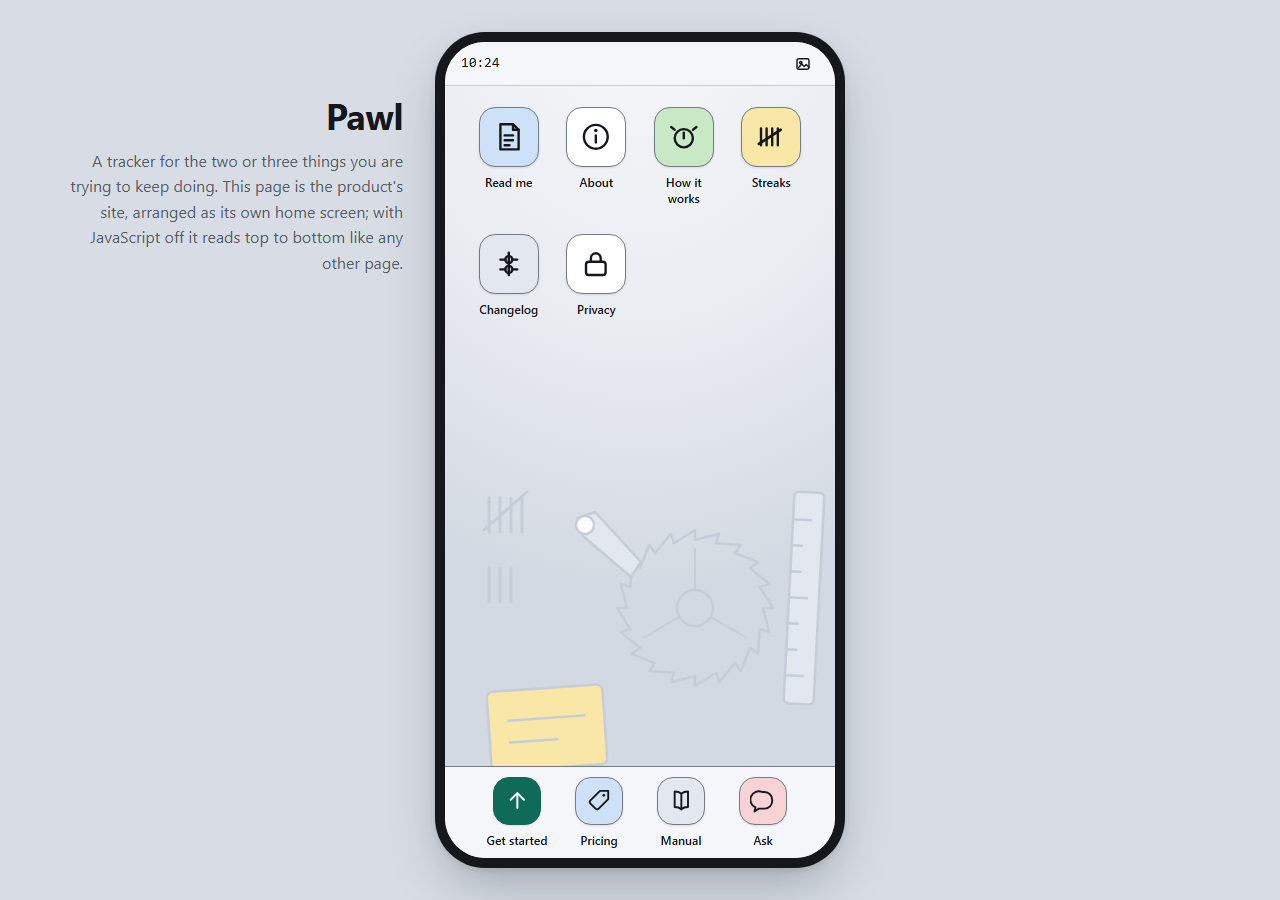
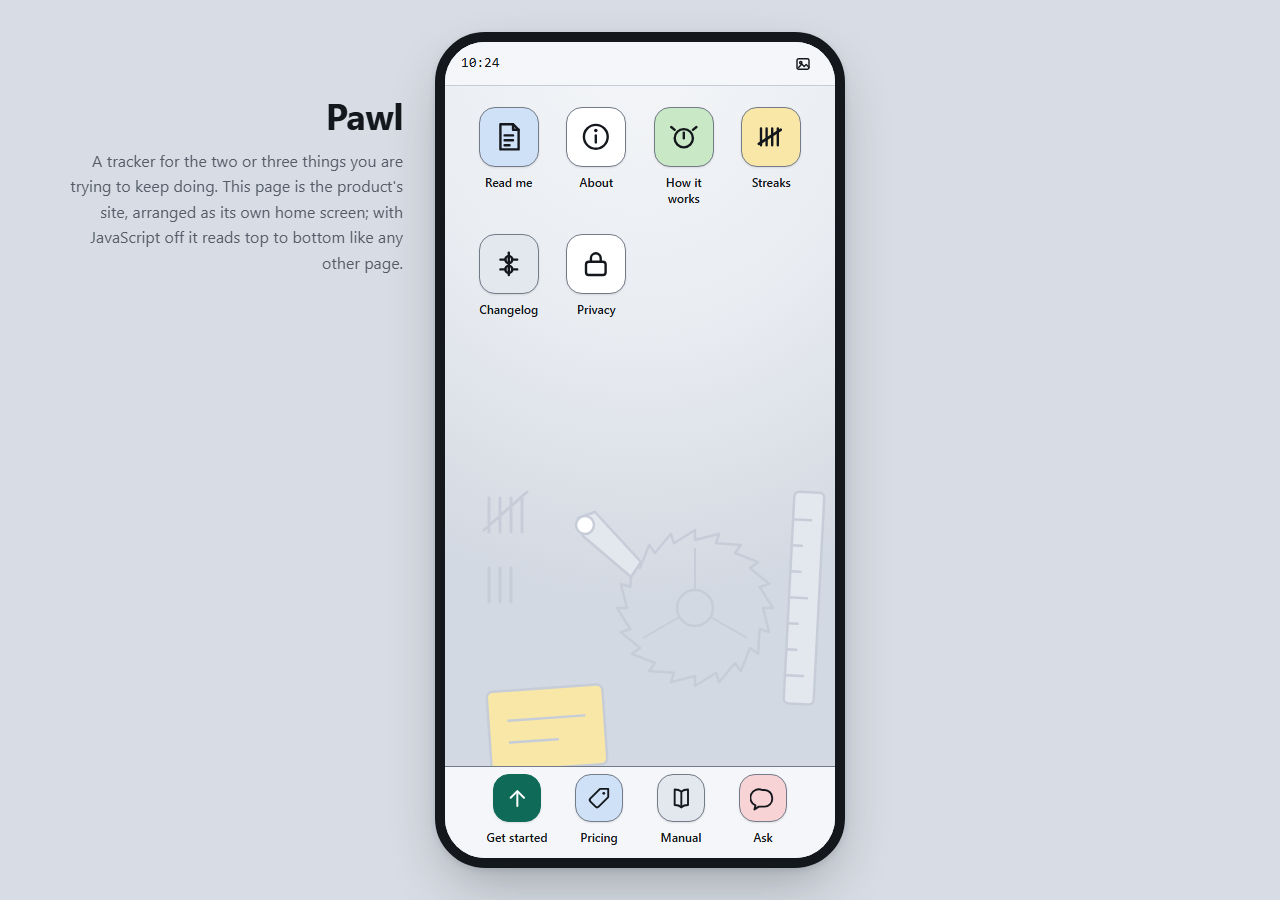
Fix square corners on an open sheet by clipping at the device
The bezel becomes a border rather than padding, so overflow:hidden on .ph-device clips every child to the screen's rounded boundary (outer radius minus border width, which tokens.css now defines --ph-radius-screen to be). Every per-element radius inside the screen is deleted: one declaration owns the boundary and no child background can paint past it. The masthead, the one element that legitimately sits outside, switches to position:fixed. The dock reserves the focus ring's reach so the new clip cannot shave it.

Changed region(s): [[0.0938, 0.1244, 0.3125, 0.3111], [0.375, 0.8711, 0.625, 0.9644], [0.0625, 0.1867, 0.0938, 0.2178]]

diff --git a/shell/shell.css b/shell/shell.css
@@ -474,12 +474,21 @@ body[data-wallpaper="scene"] .ph-wallpaper > svg {
   list-style: none;
 }
 
+/* The dock reserves the focus ring's reach at its bottom edge. This is the
+   one place in the shell where a ring can run into the screen's boundary:
+   the dock is the last thing on the screen, and its icons sit close enough
+   to the bottom that a ring drawn at full offset used to overshoot by a
+   fraction of a pixel. Before the device clipped its subtree that fraction
+   painted onto the bezel; after, it would have been shaved off. Reserving
+   the reach is what makes both wrong answers impossible, and it is written
+   as the ring's own tokens so it stays correct if the ring gets thicker. */
 .ph-live .ph-dock {
   flex: none;
   height: var(--ph-dock-height);
   display: flex;
   align-items: center;
-  padding: 0 var(--ph-space-3);
+  padding: 0 var(--ph-space-3)
+    calc(var(--ph-ring-width) + var(--ph-ring-offset));
 }
 
 .ph-live .ph-dock-list {
@@ -717,58 +726,60 @@ body[data-wallpaper="scene"] .ph-wallpaper > svg {
     place-items: center;
     height: 100dvh;
     padding: var(--ph-space-8);
+
+    /* The device's outer size, derived once and inherited, because two
+       rules need it: the device itself, and the masthead that has to line
+       itself up against a device it is no longer inside. */
+    --ph-device-outer-w: calc(var(--ph-device-width) + 2 * var(--ph-bezel));
+    --ph-device-outer-h: min(
+      calc(var(--ph-device-height) + 2 * var(--ph-bezel)),
+      calc(100dvh - 2 * var(--ph-space-8))
+    );
   }
 
   /* The device body. It declines to cosplay a particular handset: no notch,
      no camera, no brand. It is a bezel, a screen and a shadow, all drawn
-     from tokens. */
+     from tokens.
+
+     THE BEZEL IS A BORDER, NOT PADDING, AND THAT IS THE WHOLE MECHANISM.
+     An element's overflow clip is taken at its PADDING edge, with the
+     corner radii reduced by the BORDER width and not by the padding. Draw
+     the bezel as padding and `overflow: hidden` clips at the device's outer
+     edge, which is no use to anything sitting on the screen. Draw it as a
+     border and the clip lands exactly on the screen, rounded by
+     (--ph-radius-device minus --ph-bezel), which is what tokens.css defines
+     --ph-radius-screen to be.
+
+     So this one declaration owns the screen's rounded boundary in every
+     state. Nothing inside the screen declares a corner of its own, which
+     means no child background can paint past it: not the dock, not a sheet,
+     not anything a later change adds. The defect that motivated this (an
+     open sheet's white background painting square corners underneath a
+     correctly rounded home bar) was reachable only because the boundary
+     used to be restated on each element that happened to touch it, and a
+     restated boundary is one an element can be added without.
+
+     A second thing falls out of the border. Absolutely positioned children
+     resolve against the padding box, which is now exactly the screen, so
+     the wallpaper and the sheets need no bezel offsets at all and the rules
+     that used to apply them are gone.
+
+     border-box sizing stays explicit. It keeps the SCREEN at the native 390
+     whether or not the page consuming this shell ships a box-sizing reset;
+     sized the other way, a reset subtracts the bezel from the screen and
+     the presentation stops being the phone it presents. */
   .ph-live .ph-device {
     position: relative;
     inset: auto;
 
-    /* border-box and the explicit bezel arithmetic together are what keep
-       the SCREEN at the native 390, whether or not the page that consumes
-       this shell ships a box-sizing reset. Sized the other way, a reset
-       silently subtracts the bezel from the screen and the desktop
-       presentation stops being the phone it claims to present. */
     box-sizing: border-box;
-    width: calc(var(--ph-device-width) + 2 * var(--ph-bezel));
-    height: min(
-      calc(var(--ph-device-height) + 2 * var(--ph-bezel)),
-      calc(100dvh - 2 * var(--ph-space-8))
-    );
-    padding: var(--ph-bezel);
-    background: var(--ph-ink);
+    width: var(--ph-device-outer-w);
+    height: var(--ph-device-outer-h);
+    border: var(--ph-bezel) solid var(--ph-ink);
     border-radius: var(--ph-radius-device);
+    overflow: hidden;
     box-shadow: var(--ph-shadow-device);
   }
-
-  /* No clipping container: each element that touches a screen corner
-     carries the screen radius itself, which is what lets the masthead
-     position outside the device without being cut off. */
-  .ph-live .ph-wallpaper {
-    inset: var(--ph-bezel);
-    border-radius: var(--ph-radius-screen);
-  }
-
-  .ph-live .ph-statusbar {
-    border-top-left-radius: var(--ph-radius-screen);
-    border-top-right-radius: var(--ph-radius-screen);
-  }
-
-  .ph-live .ph-dock,
-  .ph-live .ph-sheet-foot {
-    border-bottom-left-radius: var(--ph-radius-screen);
-    border-bottom-right-radius: var(--ph-radius-screen);
-  }
-
-  .ph-live .ph-sheet {
-    left: var(--ph-bezel);
-    right: var(--ph-bezel);
-    bottom: var(--ph-bezel);
-    top: calc(var(--ph-bezel) + var(--ph-statusbar-height));
-  }
-
 }
 
 /* --------------------------------------------------------------------------
@@ -784,16 +795,27 @@ body[data-wallpaper="scene"] .ph-wallpaper > svg {
    the page rather than to the phone.
    -------------------------------------------------------------------------- */
 @media (min-width: 960px) and (min-height: 620px) {
+  /* Fixed rather than absolute, and this is the one place the clip above
+     costs something. The device now clips its whole subtree to the screen,
+     and the masthead is the single element that legitimately belongs
+     outside it. A fixed-position element's containing block is the
+     viewport, so an ancestor's overflow does not reach it; that holds as
+     long as nothing on the path establishes a containing block for fixed
+     descendants, which means no transform, filter, backdrop-filter,
+     perspective, contain or will-change on the stage or the device. Keeping
+     those off the device is now load-bearing, not a style preference.
+
+     The cost of leaving the device's coordinate space is that the offsets
+     have to be restated against the viewport. The device is centred both
+     ways in the stage, so its edges are computable from the outer size the
+     stage declares, and these three expressions are that arithmetic. */
   .ph-live .ph-widget {
-    position: absolute;
-    top: var(--ph-space-16);
-    right: calc(100% + var(--ph-space-8));
+    position: fixed;
+    top: calc((100dvh - var(--ph-device-outer-h)) / 2 + var(--ph-space-16));
+    right: calc((100vw + var(--ph-device-outer-w)) / 2 + var(--ph-space-8));
     width: clamp(
       180px,
-      calc(
-        (100vw - var(--ph-device-width) - 2 * var(--ph-bezel)) / 2 -
-          var(--ph-space-12)
-      ),
+      calc((100vw - var(--ph-device-outer-w)) / 2 - var(--ph-space-12)),
       340px
     );
     padding: 0;

diff --git a/tokens/tokens.css b/tokens/tokens.css
@@ -171,9 +171,18 @@
   --ph-radius-tight: 4px;     /* badges, tags, keyboard hints */
   --ph-radius: 10px;          /* buttons, inputs, cards */
   --ph-radius-icon: 16px;     /* the app plate */
-  --ph-radius-sheet: 22px;    /* an app sheet's top corners */
-  --ph-radius-screen: 40px;   /* the screen's corners, desktop presentation */
-  --ph-radius-device: 50px;   /* the device's outer edge, desktop presentation */
+  --ph-radius-sheet: 22px;    /* an app sheet's card corners, plain document */
+
+  /* The screen's corners in the presented-device states, and the single
+     authority for that boundary: shell.css draws the bezel as a BORDER and
+     clips the device, so the browser derives the screen's rounded corner as
+     the outer radius minus the border width. Deriving the outer radius the
+     other way round is what keeps those two in agreement for any bezel: no
+     child of the screen declares a corner of its own, so none can disagree
+     with this one. */
+  --ph-radius-screen: 40px;
+  --ph-radius-device: calc(var(--ph-radius-screen) + var(--ph-bezel));
+
   --ph-radius-pill: 999px;
 
   /* ----------------------------------------------------------------------
